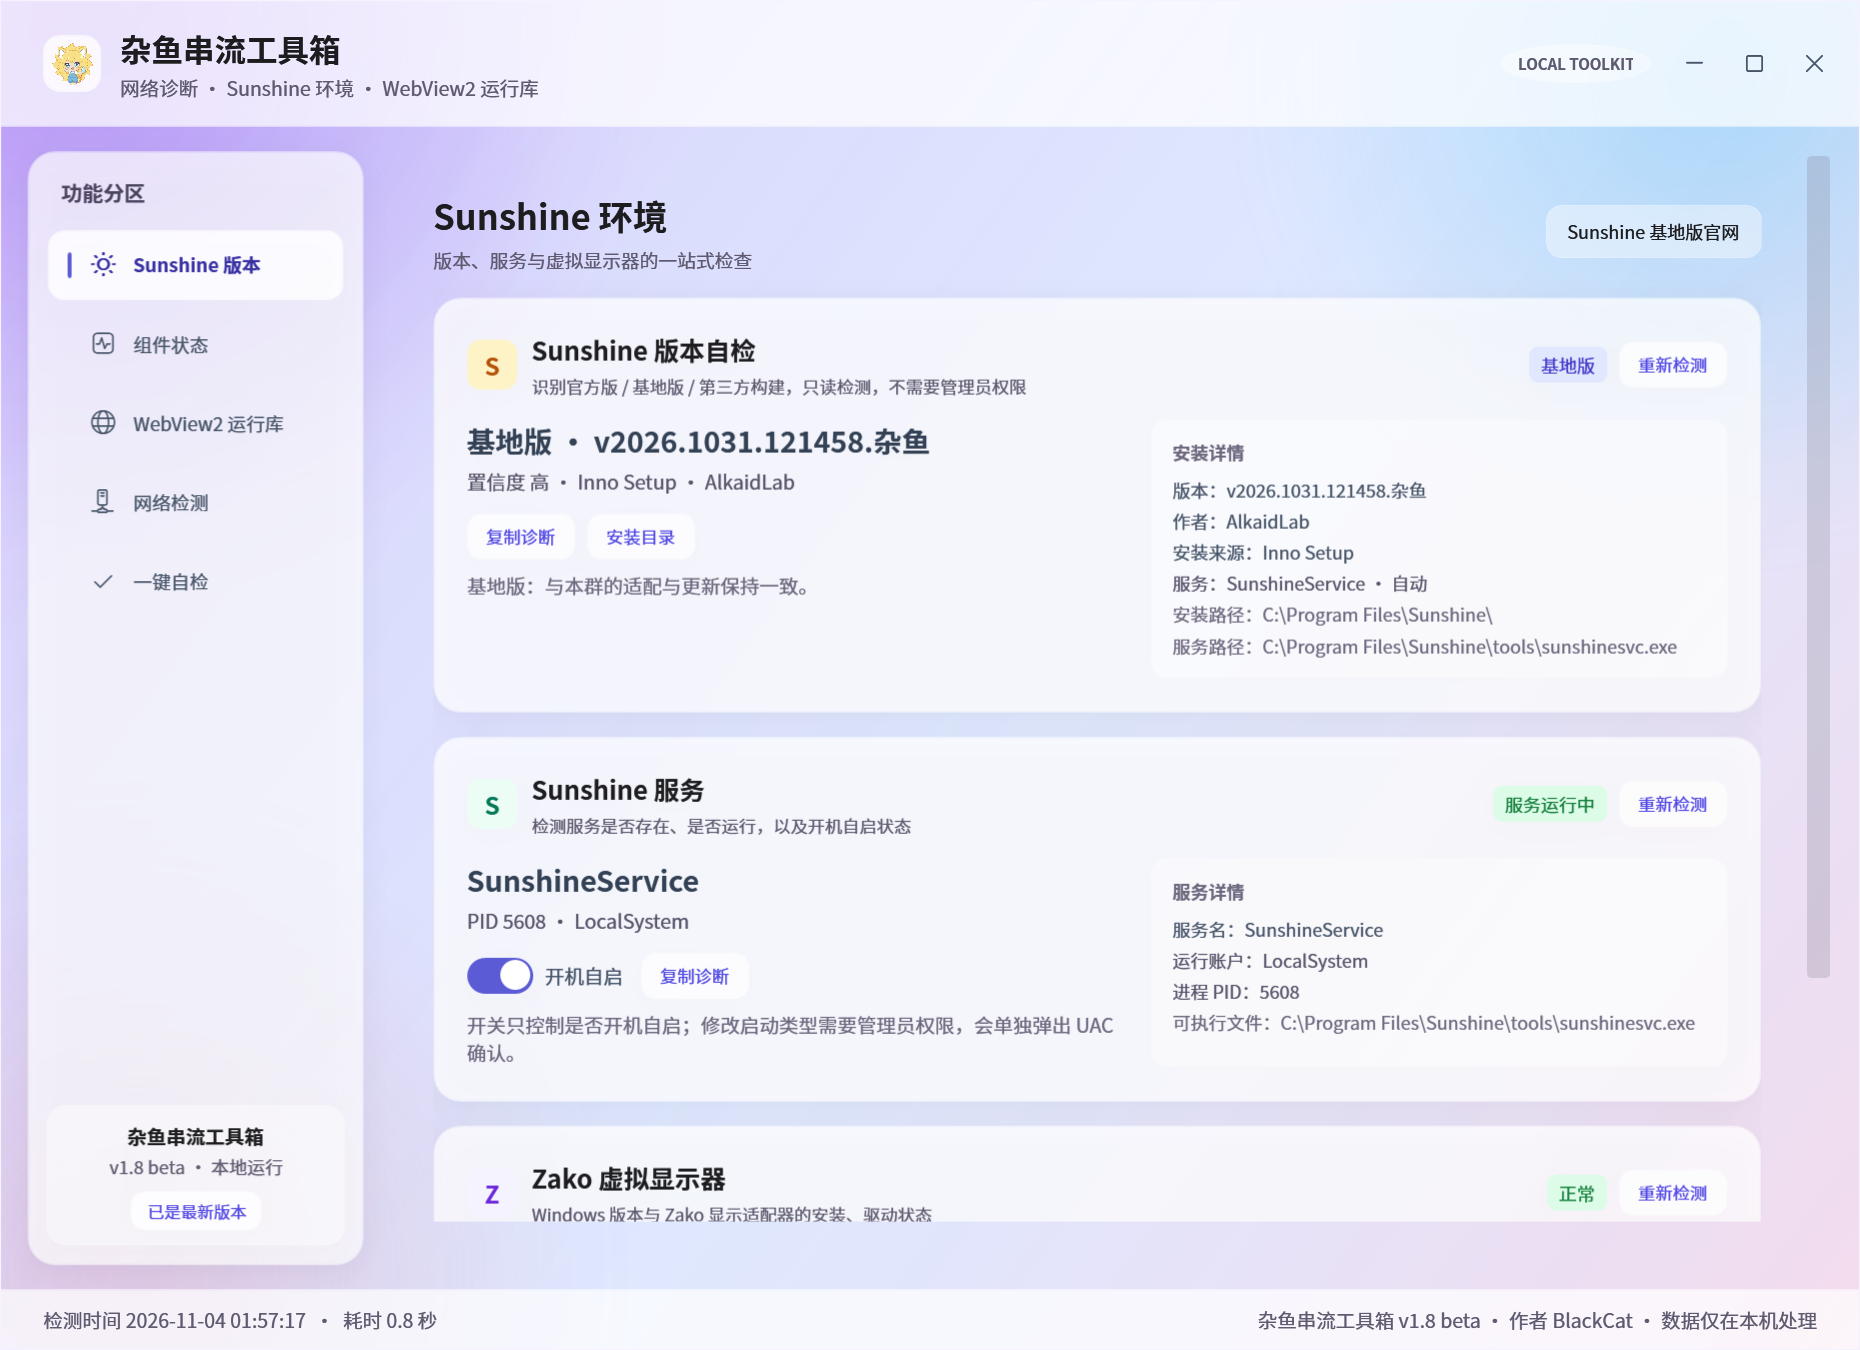
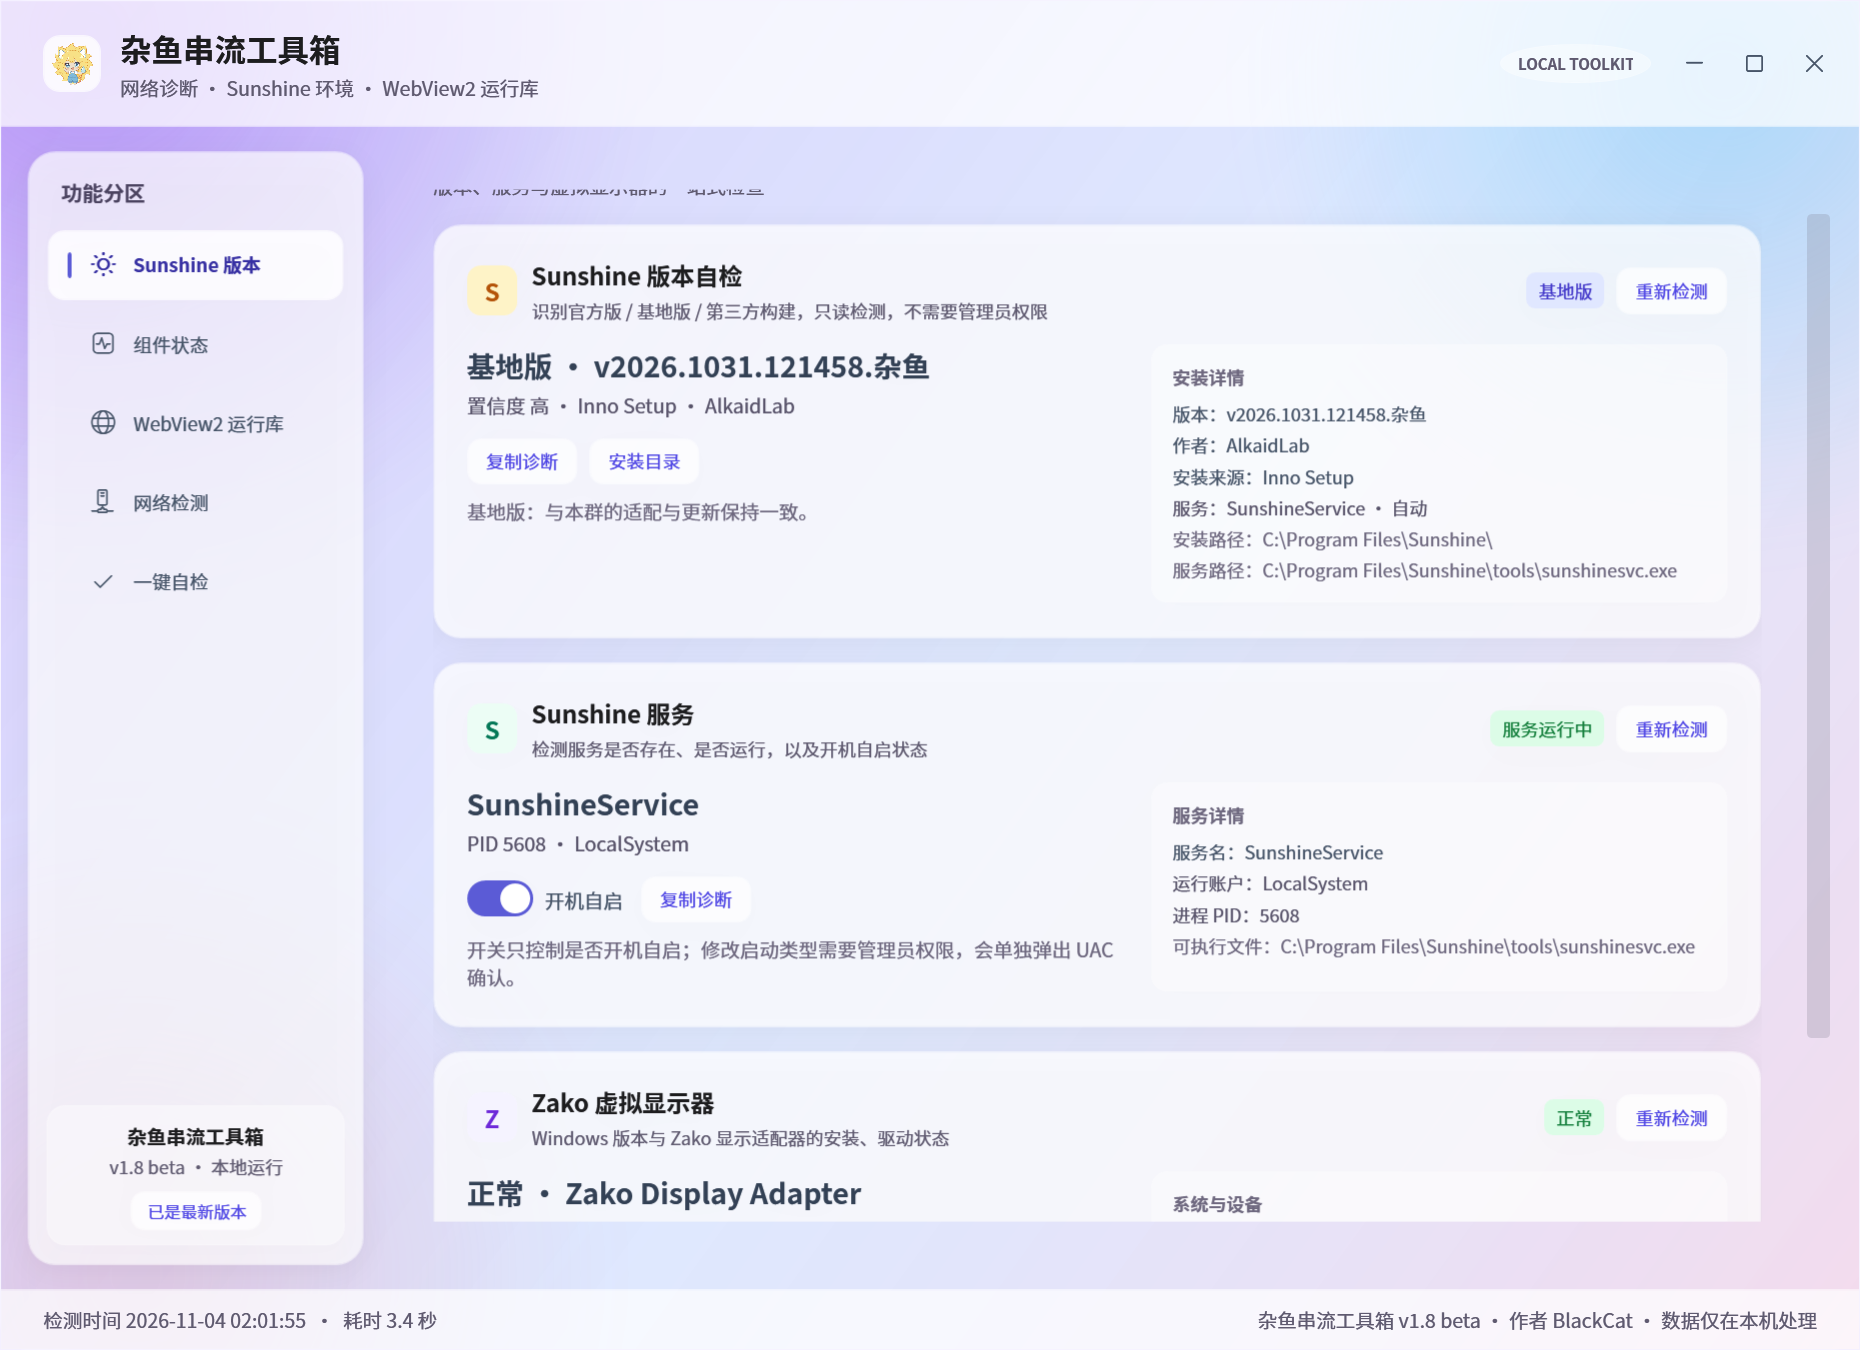
style: 调整标题与灰色说明文字比例

diff --git a/src/Zayu.App/App.xaml b/src/Zayu.App/App.xaml
@@ -81,25 +81,25 @@
         </Style>
 
         <Style x:Key="SectionTitle" TargetType="{x:Type TextBlock}">
-            <Setter Property="FontSize" Value="15.5"/>
+            <Setter Property="FontSize" Value="16"/>
             <Setter Property="FontWeight" Value="SemiBold"/>
             <Setter Property="Foreground" Value="#1D1D1F"/>
         </Style>
 
         <Style x:Key="SectionSubtitle" TargetType="{x:Type TextBlock}">
-            <Setter Property="FontSize" Value="11.5"/>
+            <Setter Property="FontSize" Value="13"/>
             <Setter Property="Foreground" Value="#5F5A70"/>
             <Setter Property="Margin" Value="0,3,0,0"/>
         </Style>
 
         <Style x:Key="PageTitle" TargetType="{x:Type TextBlock}">
-            <Setter Property="FontSize" Value="23"/>
+            <Setter Property="FontSize" Value="22"/>
             <Setter Property="FontWeight" Value="SemiBold"/>
             <Setter Property="Foreground" Value="#1D1D1F"/>
         </Style>
 
         <Style x:Key="PageSubtitle" TargetType="{x:Type TextBlock}">
-            <Setter Property="FontSize" Value="12.5"/>
+            <Setter Property="FontSize" Value="13"/>
             <Setter Property="Foreground" Value="#5F5A70"/>
             <Setter Property="Margin" Value="0,4,0,0"/>
         </Style>
@@ -168,7 +168,7 @@
             <Setter Property="BorderBrush" Value="#80FFFFFF"/>
             <Setter Property="BorderThickness" Value="1"/>
             <Setter Property="Padding" Value="12,6"/>
-            <Setter Property="FontSize" Value="11.5"/>
+            <Setter Property="FontSize" Value="12"/>
             <Setter Property="Cursor" Value="Hand"/>
             <Setter Property="Focusable" Value="False"/>
             <Setter Property="FocusVisualStyle" Value="{x:Null}"/>
@@ -245,7 +245,7 @@
             <Setter Property="Foreground" Value="#FFFFFF"/>
             <Setter Property="BorderThickness" Value="0"/>
             <Setter Property="Padding" Value="14,7"/>
-            <Setter Property="FontSize" Value="11.5"/>
+            <Setter Property="FontSize" Value="12"/>
             <Setter Property="FontWeight" Value="SemiBold"/>
             <Setter Property="Cursor" Value="Hand"/>
             <Setter Property="Focusable" Value="False"/>
@@ -285,7 +285,7 @@
             <Setter Property="BorderBrush" Value="#80FFFFFF"/>
             <Setter Property="BorderThickness" Value="1"/>
             <Setter Property="Padding" Value="12,6"/>
-            <Setter Property="FontSize" Value="11.5"/>
+            <Setter Property="FontSize" Value="12"/>
             <Setter Property="Cursor" Value="Hand"/>
             <Setter Property="Focusable" Value="False"/>
             <Setter Property="FocusVisualStyle" Value="{x:Null}"/>
@@ -324,7 +324,7 @@
             <Setter Property="BorderBrush" Value="#80FFFFFF"/>
             <Setter Property="BorderThickness" Value="1"/>
             <Setter Property="Padding" Value="12,6"/>
-            <Setter Property="FontSize" Value="11.5"/>
+            <Setter Property="FontSize" Value="12"/>
             <Setter Property="Cursor" Value="Hand"/>
             <Setter Property="Focusable" Value="False"/>
             <Setter Property="FocusVisualStyle" Value="{x:Null}"/>

diff --git a/src/Zayu.App/SunshineCard.xaml b/src/Zayu.App/SunshineCard.xaml
@@ -11,7 +11,7 @@
                                    HorizontalAlignment="Center" VerticalAlignment="Center"/>
                     </Border>
                     <StackPanel Margin="10,0,0,0" VerticalAlignment="Center">
-                        <TextBlock Text="Sunshine 版本自检" Style="{StaticResource SectionTitle}" FontSize="17"/>
+                        <TextBlock Text="Sunshine 版本自检" Style="{StaticResource SectionTitle}"/>
                         <TextBlock Text="识别官方版 / 基地版 / 第三方构建，只读检测，不需要管理员权限"
                                    Style="{StaticResource SectionSubtitle}"/>
                     </StackPanel>

diff --git a/src/Zayu.App/ZakoDisplayCard.xaml b/src/Zayu.App/ZakoDisplayCard.xaml
@@ -11,7 +11,7 @@
                                    HorizontalAlignment="Center" VerticalAlignment="Center"/>
                     </Border>
                     <StackPanel Margin="10,0,0,0" VerticalAlignment="Center">
-                        <TextBlock Text="Zako 虚拟显示器" Style="{StaticResource SectionTitle}" FontSize="17"/>
+                        <TextBlock Text="Zako 虚拟显示器" Style="{StaticResource SectionTitle}"/>
                         <TextBlock Text="Windows 版本与 Zako 显示适配器的安装、驱动状态"
                                    Style="{StaticResource SectionSubtitle}"/>
                     </StackPanel>

diff --git a/src/Zayu.App/SunshineServiceCard.xaml b/src/Zayu.App/SunshineServiceCard.xaml
@@ -11,7 +11,7 @@
                                    HorizontalAlignment="Center" VerticalAlignment="Center"/>
                     </Border>
                     <StackPanel Margin="10,0,0,0" VerticalAlignment="Center">
-                        <TextBlock Text="Sunshine 服务" Style="{StaticResource SectionTitle}" FontSize="17"/>
+                        <TextBlock Text="Sunshine 服务" Style="{StaticResource SectionTitle}"/>
                         <TextBlock Text="检测服务是否存在、是否运行，以及开机自启状态"
                                    Style="{StaticResource SectionSubtitle}"/>
                     </StackPanel>
